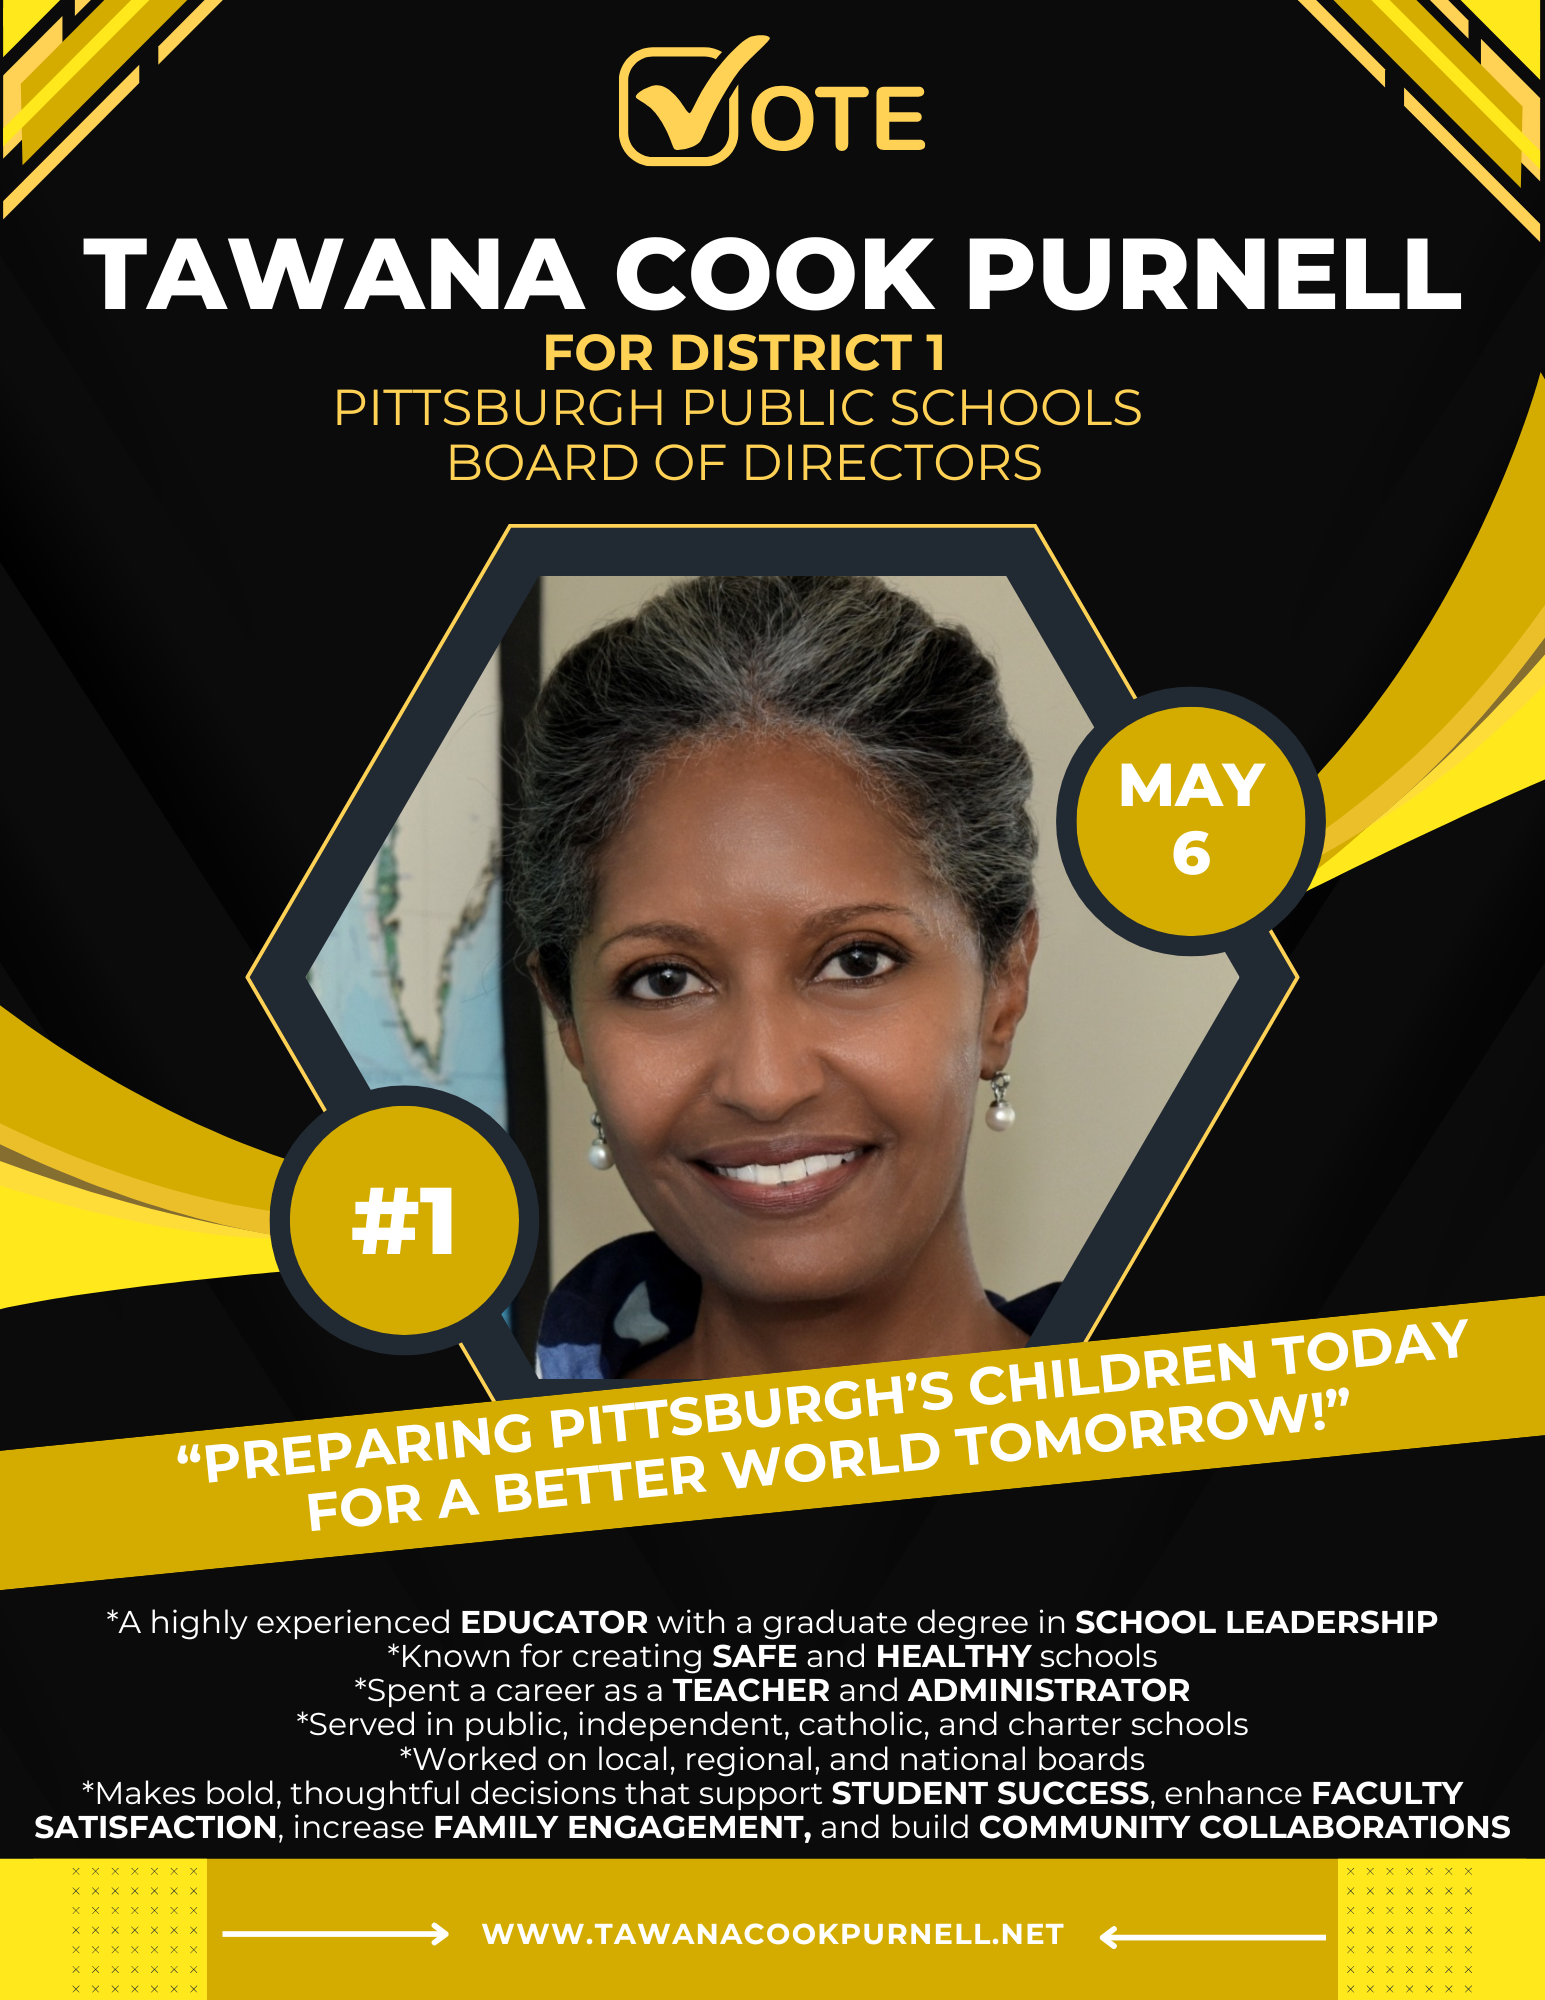
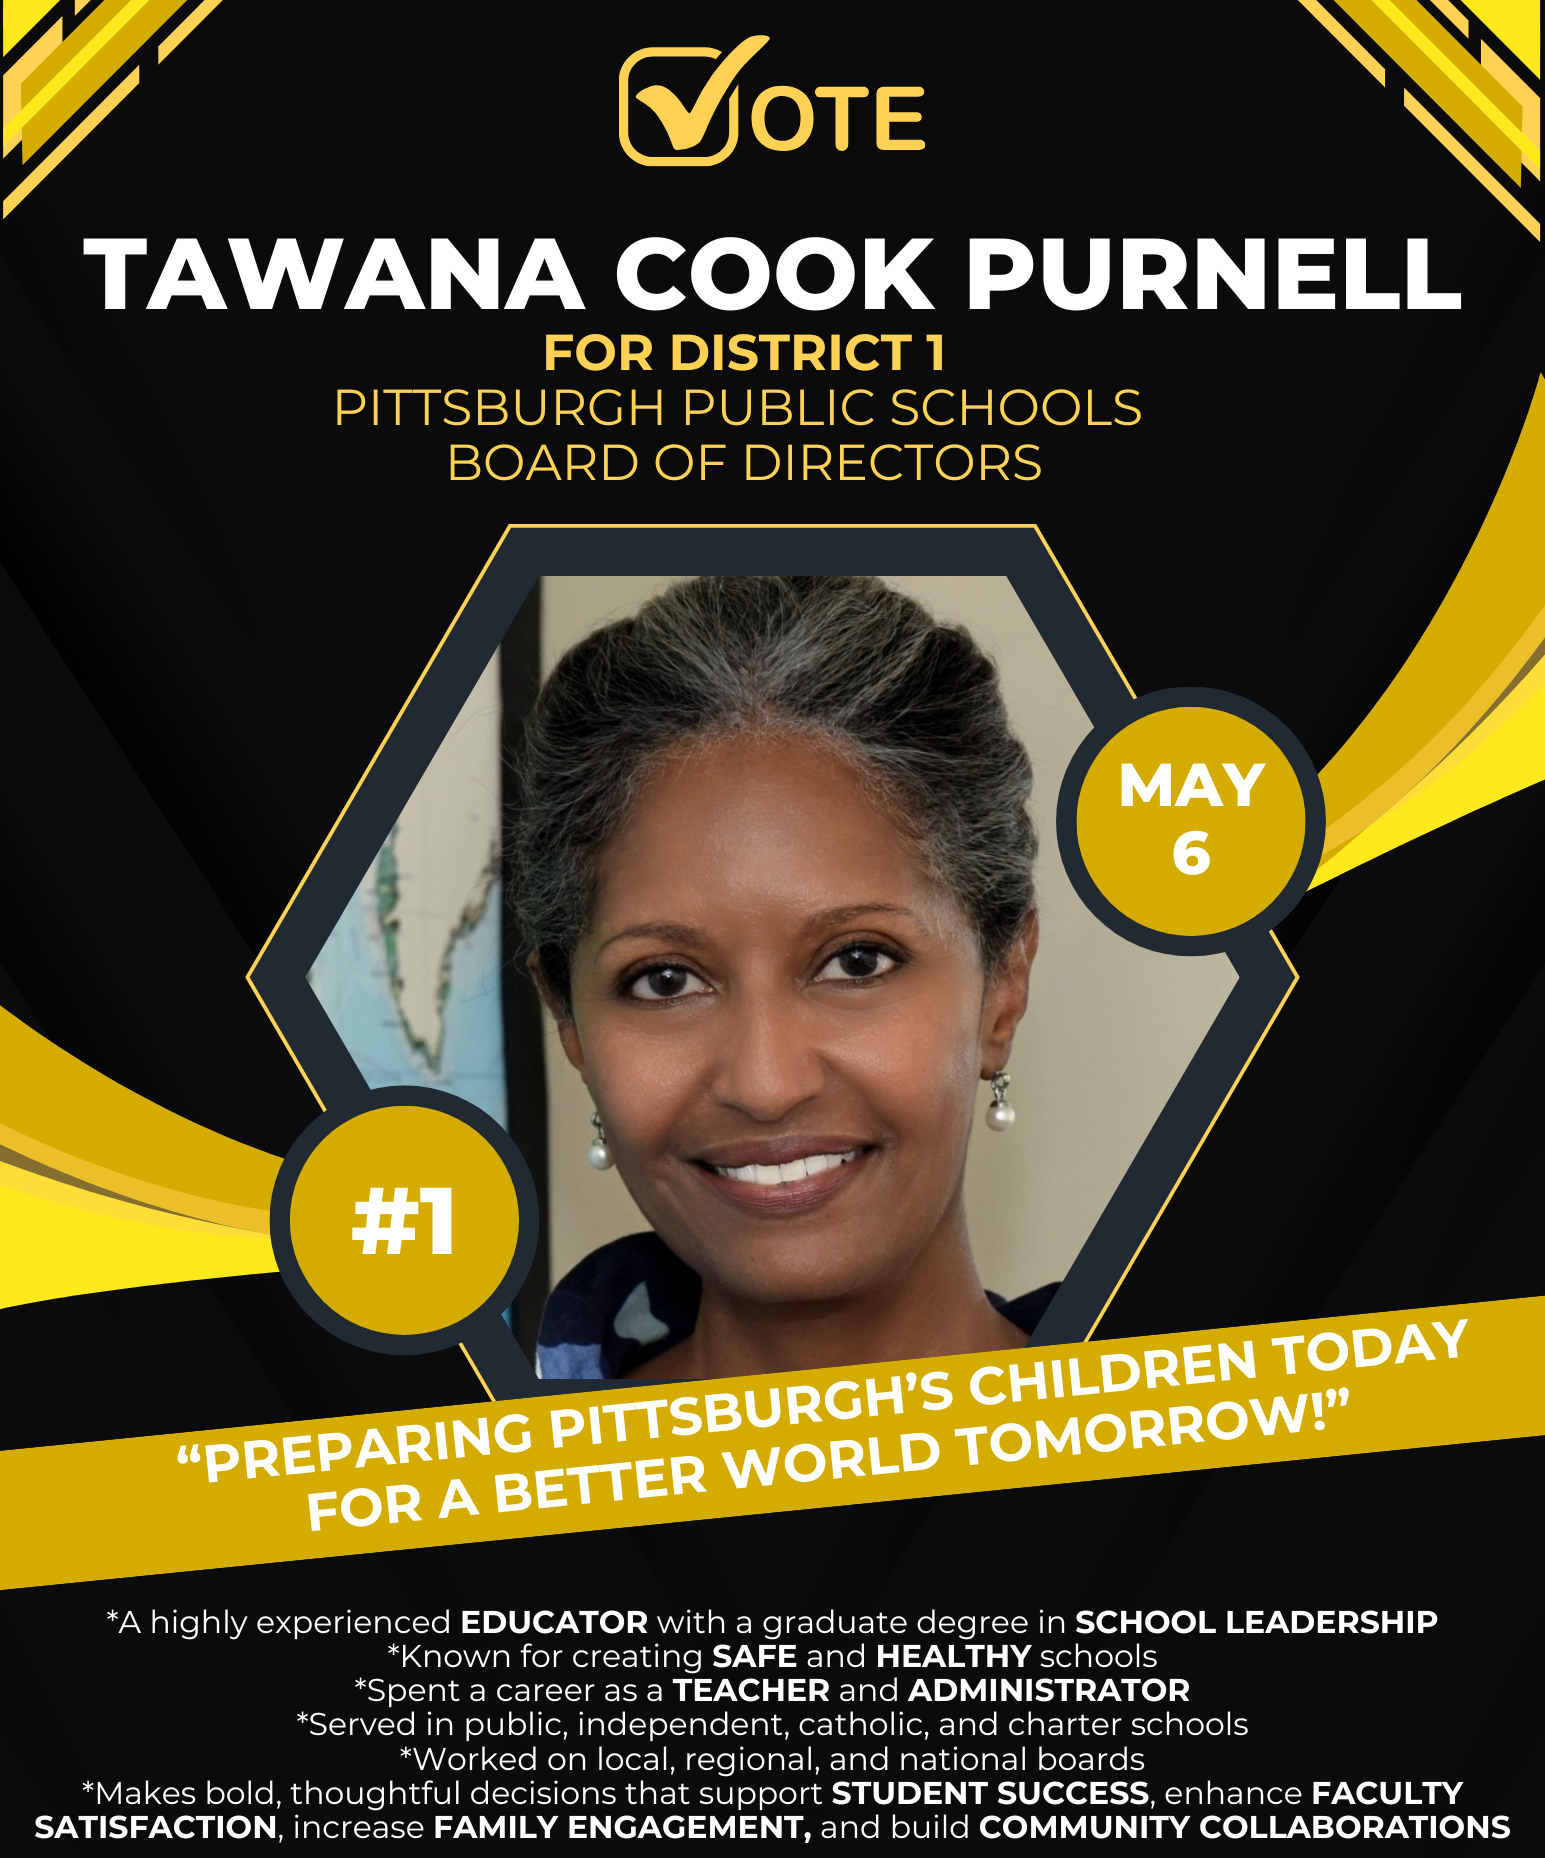
Add plumbing, move site to text

diff --git a/docs/index.html b/docs/index.html
@@ -61,12 +61,39 @@
     <meta content="tawanacookpurnell.net" name="twitter:domain" />
     <meta content="summary_large_image" name="twitter:card" />
     <meta content="on" name="twitter:dnt" />
+    <meta content="Official Homepage for Tawana Cook Purnell, candidate for Pittsburgh's District 1 School Board" name="description" />
+    <meta content="@jpurnell@mastodon.social" name="fediverse:creator" />
+    <script src="https://www.googletagmanager.com/gtag/js?id=G-T80JP1PM8L"></script>
+    <script>			  window.dataLayer = window.dataLayer || [];
+			  function gtag(){dataLayer.push(arguments);}
+			  gtag('js', new Date());
+
+			  gtag('config', 'G-T80JP1PM8L');</script>
+    <link href="/css/main.css" rel="stylesheet" />
   </head>
   <body class="container">
-    <div>
-      <img alt="" src="/images/flyer.png" />
+    <div style="background-color: rgb(0 0 0 / 100%)">
+      <div class="justify-content-center align-items-center" style="color: rgb(255 255 255 / 100%); padding: 20px">
+        <h1 class="color-inherit text-center" style="color: rgb(255 215 0 / 100%); font-weight: 700">VOTE</h1>
+        <h1 class="color-inherit text-center" style="font-weight: 800">TAWANA COOK PURNELL</h1>
+        <h2 class="color-inherit text-center" style="font-weight: 700">FOR DISTRICT 1</h2>
+        <h2 class="color-inherit text-center" style="font-weight: 300">PITTSBURGH PUBLIC SCHOOLS BOARD OF DIRECTORS</h2>
+      </div>
+      <img alt="Vote Tawana Cook Purnell for District 1 School Board on May 26" src="/images/tcpFlyer.JPG" class="justify-content-center align-items-center" style="background-color: rgb(0 0 0 / 100%); padding: 20px" />
+      <div class="justify-content-center align-items-center" style="color: rgb(255 255 255 / 100%); padding: 20px">
+        <h2 class="color-inherit text-center" style="background-color: rgb(255 215 0 / 100%); color: rgb(0 0 0 / 100%); font-weight: 700; padding: 20px">PREPARING PITTSBURGH'S CHILDREN TODAY FOR A BETTER WORLD TOMORROW!</h2>
+        <div class="color-inherit fs-3">
+          <ul class="font-inherit">
+            <li><p class="m-0 text-center">A highly experienced <strong>EDUCATOR</strong> with a graduate degree in <strong>SCHOOL LEADERSHIP</strong></p></li>
+            <li><p class="m-0 text-center">Known for creating <strong>SAFE</strong> and <strong>HEALTHY</strong> schools</p></li>
+            <li><p class="m-0 text-center">Spent a career as a <strong>TEACHER</strong> and <strong>ADMINISTRATOR</strong></p></li>
+            <li><p class="m-0 text-center">Served in public, independent, catholic, and charter schools</p></li>
+            <li><p class="m-0 text-center">Worked on local, regional, and national boards</p></li>
+            <li><p class="m-0 text-center">Makes bold, thoughtful decisions that support <strong>STUDENT SUCCESS</strong>, enhance <strong>FACULTY SATISFACTION</strong>, increase <strong>FAMILY ENGAGEMENT</strong>, and build <strong>COMMUNITY COLLABORATIONS</strong></p></li>
+          </ul>
+        </div>
+      </div>
     </div>
-    <p class="mt-5 text-center">Created in Swift with <a href="https://github.com/twostraws/Ignite" class="link-underline link-underline-opacity-100 link-underline-opacity-100-hover">Ignite</a></p>
     <script src="/js/bootstrap.bundle.min.js"></script>
     <script src="/js/ignite-core.js"></script>
   </body>

diff --git a/Sources/Pages/Home.swift b/Sources/Pages/Home.swift
@@ -5,10 +5,34 @@ struct Home: StaticLayout {
     var title = "Home"
 
     var body: some HTML {
-//		Text("Vote")
-//        Text("Tawana Cook Purnell").font(.title1).fontWeight(.bold)
-//		Text("For District 1").font(.title2).fontWeight(.bold)
-//		Text("PITTSBURGH PUBLIC SCHOOLS BOARD OF DIRECTORS").font(.title2)
-		Image("/images/flyer.png", description: "Vote Tawana Cook Purnell for District 1 School Board on May 26")
+		Group {
+			Text("VOTE").horizontalAlignment(.center).font(.title1).fontWeight(.bold).foregroundStyle(.gold)
+			Text("TAWANA COOK PURNELL").horizontalAlignment(.center).font(.title1).fontWeight(.heavy)
+			Text("FOR DISTRICT 1").horizontalAlignment(.center).font(.title2).fontWeight(.bold)
+			Text("PITTSBURGH PUBLIC SCHOOLS BOARD OF DIRECTORS").horizontalAlignment(.center).font(.title2).fontWeight(.light)
+		}
+		.foregroundStyle(.white)
+		.frame(alignment: .center)
+		.padding()
+		Group {
+			Image("/images/tcpFlyer.JPG", description: "Vote Tawana Cook Purnell for District 1 School Board on May 26")
+		}
+		.background(.black)
+		.frame(alignment: .center)
+		.padding()
+		Group {
+			Text("PREPARING PITTSBURGH'S CHILDREN TODAY FOR A BETTER WORLD TOMORROW!").horizontalAlignment(.center).font(.title2).fontWeight(.bold).background(Color.gold).foregroundStyle(.black).padding()
+			List {
+				Text(markdown: "A highly experienced **EDUCATOR** with a graduate degree in **SCHOOL LEADERSHIP**").horizontalAlignment(.center)
+				Text(markdown: "Known for creating **SAFE** and **HEALTHY** schools").horizontalAlignment(.center)
+				Text(markdown: "Spent a career as a **TEACHER** and **ADMINISTRATOR**").horizontalAlignment(.center)
+				Text(markdown: "Served in public, independent, catholic, and charter schools").horizontalAlignment(.center)
+				Text(markdown: "Worked on local, regional, and national boards").horizontalAlignment(.center)
+				Text(markdown: "Makes bold, thoughtful decisions that support **STUDENT SUCCESS**, enhance **FACULTY SATISFACTION**, increase **FAMILY ENGAGEMENT**, and build **COMMUNITY COLLABORATIONS**").horizontalAlignment(.center)
+			}.font(.title3)
+		}
+		.foregroundStyle(.white)
+		.frame(alignment: .center)
+		.padding()
     }
 }

diff --git a/Sources/Site.swift b/Sources/Site.swift
@@ -4,7 +4,7 @@ import Ignite
 @main
 struct IgniteWebsite {
     static func main() async {
-        let site = ExampleSite()
+        let site = TawanaPurnell()
 
         do {
 			try await site.publish(buildDirectoryPath: "docs")
@@ -14,12 +14,17 @@ struct IgniteWebsite {
     }
 }
 
-struct ExampleSite: Site {    
+struct TawanaPurnell: Site {
     var name = "Tawana Cook Purnell"
     var titleSuffix = " – Candidate for School Board District 1"
     var url = URL(static: "https://www.tawanacookpurnell.net")
-    var builtInIconsEnabled = true
-
+	var description = "Official Homepage for Tawana Cook Purnell, candidate for Pittsburgh's District 1 School Board"
+	
+	var language: Locale.Language = .init(identifier: "en-US")
+	var builtInIconsEnabled = true
+	var feedConfiguration = RSS()
+	var robotsConfiguration = Robots()
+	
     var author = "Justin Purnell"
 
     var homePage = Home()

diff --git a/Sources/Layouts/MainLayout.swift b/Sources/Layouts/MainLayout.swift
@@ -3,10 +3,22 @@ import Ignite
 
 struct MainLayout: Layout {
     var body: some HTML {
-//        HTML { } // Required only if you need to add extra functionality, like analytics
+//        HTML { }  //Required only if you need to add extra functionality, like analytics
+		Head() {
+			MetaTag(name: "description", content: TawanaPurnell().description)
+			MetaTag(name: "fediverse:creator", content: "@jpurnell@mastodon.social")
+			Script(file: "https://www.googletagmanager.com/gtag/js?id=G-T80JP1PM8L")
+			Script(code: """
+			  window.dataLayer = window.dataLayer || [];
+			  function gtag(){dataLayer.push(arguments);}
+			  gtag('js', new Date());
+
+			  gtag('config', 'G-T80JP1PM8L');
+""")
+			MetaLink(href: "/css/main.css", rel: "stylesheet")
+		}
         Body {
-            content
-            IgniteFooter()
-        }
+			content.background(.black)
+		}
     }
 }

diff --git a/Sources/Configuration/Robots.swift b/Sources/Configuration/Robots.swift
@@ -1,0 +1,29 @@
+//
+//  Robots.swift
+//  IgniteStarter
+//
+//  Created by Justin Purnell on 10/1/24.
+//
+
+
+import Foundation
+import Ignite
+
+/// An example custom robots.txt configuration file, blocking certain paths
+/// from Google and Bing, and everything from ChatGPT.
+struct Robots: RobotsConfiguration {
+	var disallowRules: [DisallowRule]
+
+	init() {
+		let paths = [
+			"*",
+			"*"
+		]
+
+		disallowRules = [
+			DisallowRule(robot: .google, paths: paths),
+			DisallowRule(robot: .bing, paths: paths),
+			DisallowRule(robot: .chatGPT)
+		]
+	}
+}

diff --git a/Sources/Configuration/RSS.swift b/Sources/Configuration/RSS.swift
@@ -1,0 +1,15 @@
+//
+//  RSS.swift
+//  IgniteStarter
+//
+//  Created by Justin Purnell on 10/1/24.
+//
+
+
+import Foundation
+import Ignite
+
+func RSS(mode: FeedConfiguration.ContentMode = .full, contentCount: Int = 20, path: String = "/feed.rss", image: FeedConfiguration.FeedImage = FeedConfiguration.FeedImage(url: "/images/logos/rss.png", width: 144, height: 152)) -> FeedConfiguration {
+	
+	return FeedConfiguration(mode: mode, contentCount: contentCount, path: path, image: image)!
+}

diff --git a/Assets/css/main.css b/Assets/css/main.css
@@ -1,0 +1,19 @@
+body {
+  font-family: "Helvetica", system-ui, "Arial", "Sans-Serif";
+  font-size: 0.85em;
+}
+
+@media only screen and (min-width: 1142px) {
+  /* For desktop: */
+  body {
+    width: 100%;
+    max-width: 100%
+  }
+}
+
+#content,
+#page {
+  width: 100%;
+  margin: 0;
+  float: none;
+}

diff --git a/docs/css/main.css b/docs/css/main.css
@@ -1,0 +1,19 @@
+body {
+  font-family: "Helvetica", system-ui, "Arial", "Sans-Serif";
+  font-size: 0.85em;
+}
+
+@media only screen and (min-width: 1142px) {
+  /* For desktop: */
+  body {
+    width: 100%;
+    max-width: 100%
+  }
+}
+
+#content,
+#page {
+  width: 100%;
+  margin: 0;
+  float: none;
+}
